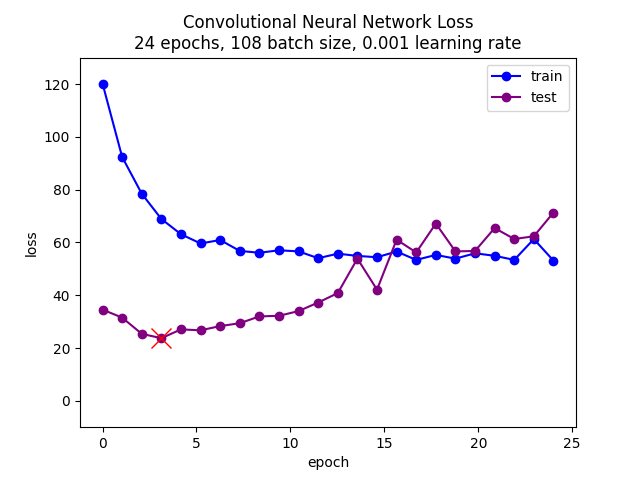
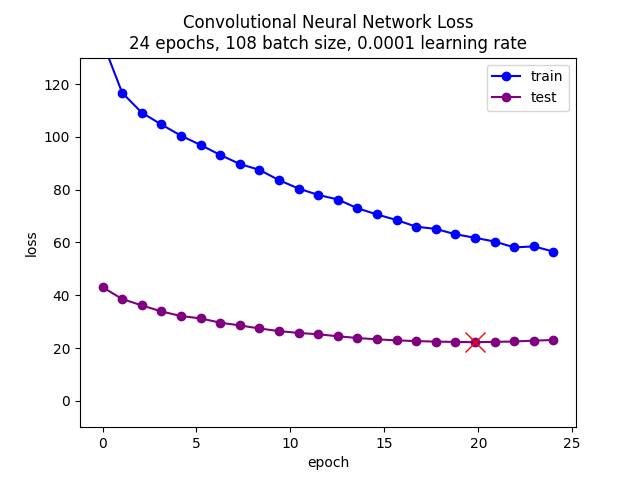
Part 1 + 2 done, appendix added

diff --git a/Latex_Report/Giselle_edit/GXX_report.tex b/Latex_Report/Giselle_edit/GXX_report.tex
@@ -12,109 +12,85 @@
 \renewcommand{\baselinestretch}{1}
 
 \begin{document}
-\title{Fake or Real News? A Comparison of Traditional Machine Learning Models and Deep Learning Models for News Article Classification}
+\title{Is it Fake News? A Comparison of Traditional Machine Learning Models and Deep Learning Models for News Article Classification}
 \author{Giselle Martel ID: 26352936 \and Firas Sawan ID: 26487815}
 \maketitle
-
 \begin{abstract}
-   "Fake news" is a term which we hear more often in contemporary times, and "is part of a larger spectrum ranging from unintentional misinformation (e.g., sloppy reporting) to intentional disinformation (e.g., propaganda)"\cite{doi:https://doi.org/10.1002/9781118841570.iejs0128}. The spread of falsehoods and inaccuracies through social media and online news sources undermines societal progress, and can spawn a multitude of negative effects [CITE]. Thus, the objective of our project is explore the feasibility and performance of existing supervised machine learning and natural language processing techniques in the identification of "fake news" to explore solutions that address misinformation in the digital age. We compare binary classification performance of news articles into "fake" or "real" categories by training six different machine learning models. Traditional classifiers such as Logistic Regression, Decision Tree, Random Forest, Support Vector Machines, and Multinomial Naive Bayes classification were utilized in our experiments, in addition to a Convolutional Neural Network. The results show that Logistic regression has the highest level of accuracy and lowest level of overfitting, thus it was generally the best model to use for classifying articles into the two categories. This classifier was followed in terms of accuracy and performance by the other 4 classifiers in the order mentioned above and the results are presented in the following report. 
+\small
+"Fake news" is a term which we hear more often in contemporary times, and "is part of a larger spectrum ranging from unintentional misinformation (e.g., sloppy reporting) to intentional disinformation (e.g., propaganda)"\cite{doi:https://doi.org/10.1002/9781118841570.iejs0128}. The spread of falsehoods and inaccuracies through social media and online news sources undermines societal progress, and can spawn a multitude of negative effects [CITATION NEEDED]. Thus, the objective of our project is explore the feasibility and performance of existing supervised machine learning and natural language processing techniques in the identification of "fake news" to explore solutions that address misinformation in the digital age. We compare binary classification performance of news articles into "fake" or "real" categories by training six different machine learning models. Traditional classifiers such as Logistic Regression, Decision Tree, Random Forest, Support Vector Machines, and Multinomial Naive Bayes classification were utilized in our experiments, in addition to a Convolutional Neural Network. The results show that Logistic regression has the highest level of accuracy and lowest level of overfitting, thus it was generally the best model to use for classifying articles into the two categories. This classifier was followed in terms of accuracy and performance by the other 4 classifiers in the order mentioned above and the results are presented in the following report. 
 \end{abstract} 
 
 %------------------------------------------------------------------------
 \section{Introduction}
+\small
 The term “fake news” mainly refers to false or inaccurate information that is mistakenly or inadvertently created or spread. Such information is often presented in the form of reputable news, despite the often omission of verifiable facts or sources, deliberately inflammatory language, and the presentation of an issue from one polarized viewpoint [CITATION NEEDED]. In regards to the current COVID-19 global health crisis we are facing, and the recent 2020 U.S. elections, we have witnessed as a society the exponential spread of conspiracies, accusations, and falsehoods which is often fueled by misleading or suspicious sources [CITATION NEEDED]. Such a situation can have a multitude of negative outcomes and undermines progress in several areas of society ranging from politics, health, economics, social justice, and beyond [CITATION NEEDED].\par
+
 Given our concern with this issue, the purpose of our project is to explore machine learning models that can aid in the identification of misleading or untruthful news articles online. We would like to identify, if any, existing popular machine learning models that could accurately classify online new sources by text into "fake" and "real" labels. We will compare the the pros and cons of five different traditional supervised models in text classification; which include Logistic Regression, Decision Tree, Random Forest, Support Vector Machine, and Multinomial Naive Bayes classifiers. In addition, we will compare the results with a supervised deep Convolutional Neural Network. Hyper-parameter tuning will be employed for all models in an attempt to generate a successful result.\par
-To train our collection of models, we utilized an existing dataset from Kaggle of news articles collected between 2015-2018 [CITE], in addition to data which was collected via scraping of more recent articles from both trusted and illegitimate news sources. The following scraped sources were included and labelled as "real" news: CBC news, CTV news, Global news, The Guardian, Fox News, NBC, The Washington Post, BBC, and CNN which are all generally recognized as reputable. More questionable scraped sources such as Breitbart, Infowars, Prntly, National Report, and Daily Buzz Live were labelled as "fake" and included in the dataset. In addition, well-know satirical news sources such as "The Onion" and "The Beaverton" were also included in the data and labelled as "fake".  The top figure below depicts the structure of the dataset from Kaggle, and the bottom figure shows the scraped data before preprocessing:
+
+To train our collection of models, we utilized an existing dataset from Kaggle of news articles collected between 2015-2018 [CITATION NEEDED], in addition to data which was collected via scraping of more recent articles from both trusted and illegitimate news sources. The following scraped sources were included and labelled as "real" news: CBC news, CTV news, Global news, The Guardian, Fox News, NBC, The Washington Post, BBC, and CNN which are all generally recognized as reputable. More questionable scraped sources such as Breitbart, Infowars, Prntly, National Report, and Daily Buzz Live were labelled as "fake" and included in the dataset. In addition, well-know satirical news sources such as "The Onion" and "The Beaverton" were also included in the data and labelled as "fake". The figure below depicts the structure of the dataset from Kaggle, and the following figure depicts the raw structure of the scraped data before preprocessing:
 \begin{center}
-\includegraphics[width=\linewidth]{dt_example.png}
-\includegraphics[width=\linewidth]{scraped_example.png}
+\includegraphics[scale=0.3]{dt_example.png}
+\end{center}
+\begin{center}
+\includegraphics[scale=0.3]{scraped_example.png}
 \end{center}
 Our inspiration to utilize the Kaggle dataset in addition to a scraping approach came from a similar experiment in news classification conducted by Ria Gandhi [CITATION HERE]. In addition, her approach in preprocessing of the data and her model selection were somewhat replicated in our project, albeit with many changes to implementation details and parameter tuning. The underlying goal of this experiment is to present the respective results from each model and compare their overall performance in classification. The results of our model training and the generated predictions will be presented analyzed in this report. Detailed graphs, confusion matrices, metrics measurement, and other results  for each of the classifiers as well as a report of accuracy, precision and recall metrics. 
 
 
 %------------------------------------------------------------------------
 \section{Methodology \& Experimental Results}
+\small
+The first step in our experiment was to carry out the preprocessing of the raw dataset. Preprocessing included steps such as the cleanup of the raw data from both Kaggle and scraped sources into the desired format, and then removing empty data cells, punctuation from each article's text formatting, and applying tokenization to each entry in the dataset using the Natural Language Processing Toolkit library. Tokenization allows for the extraction of all unique words from each article into a list of words as opposed to a single string object, while providing the option to exclude stop-words for words that are overtly present in the data or for words that the model should be agnostic to. Additionally in this process a dictionary of all the words in the dataset (i.e. vocabulary) was generated to define all the training features. For the purposes of this project, we chose to omit common words of the English language in addition to certain words that appear on every entry of the Kaggle dataset, notably "Reuters", since each "real" entry contained a reference to this well-known reputable news source.  In addition, we also applied a lemmatization to group together words that appear in several (inflected) forms. For instance, words that imply the same meaning such as "lying" and "lie" may be grouped together during this process.\par
 
-\textcolor{blue}{Describe the important steps you took to achieve your goal, alongside experimental results that followed. If certain steps (preprocessing, extra features, etc.) turned out to be important for maximizing prediction performance, then try to mention how much benefit you observed with/without that feature.}
-The first step we had to take to prepare for our experiment was to preprocess the raw data. Preprocessing included steps such as the cleanup of the raw data from both Kaggle and scraped sources into the desired format, and then removing empty data cells, punctuation from each article's text formatting, and applying tokenization to each entry in the dataset using the Natural Language Processing Toolkit libary. We utilized stopwords in our tokenization, and omitted common words of the English language in addition to certain words that appear on every entry of the Kaggle dataset (namely "Reuters") since the "real" articles were provided from Reuters.
-We also applied a lemmatization to group together words that appear in several (inflected) forms. \par
-Once the data cleanup and text tokenization process was carried out, we vectorized the article extries by applying a Count Vectorizer to  both files were joined together to create one big dataset that we later used in our tokenization process. Tokenization was a necessary process that allowed us to extract all unique words from the joined dataset while excluding some stop-words that were present in abundance throughout the data. Following tokenization the data was split into training and testing components. We opted to split the data into a 70\% training set and a 30\% testing set as it seemed ideal to have our training data consisting of more than double that of the testing data. Following the split we generated a score graph, a document-term matrix for each of the training and testing data and converted both the testing and training datasets into dataframes that we later used in our models. \\
+After data cleanup and text tokenization, we vectorized the article entries by applying a TF-IDF Vectorizer to assign a normalized feature frequency mapping to our list of tokenized articles, which returns a sparse matrix that can be utilized for training all of the traditional machine learning models. The Convolutional Neural Network conversely was trained using a Count Vectorizer, which uses a non-normalized form of the frequency mapping (i.e. integer form instead of normalized floats) since this model classifies based on frequencies. This appeared to generate more desirable result for the Convolutional Neural Network during training and evaluation. After tokenization and generating the features to train the model with, the next step is to include the corresponding label for each article in the data, with the choice being "real" or "fake" and then combine all entries into a data frame. The last step of preprocessing was to split the data into testing and training samples, with a 30\% and 70\% split respectively.\par
 
-The first model we worked on was the Logistic Regression classifier that we used to predict the probability of our categorically dependent tokenized text. We used the corresponding Sklearn library to generate our model and fit our data to it using hyper parameters obtained via a hyper parameter search for values of C with the help of GridSearchCV method. The search allowed us to obtain the best possible accuracy, calculate the training and testing scores as well as to determine overfitting and perform prediction calculations. The model worked in such a way that it treated our tokenized data as binary variables that contain data coded as 1 (in our case Real) or 0 (in our case "fake") and used this data to make predictions. We subsequently generated a graph of each of the training and testing scores as well as a confusion matrix (Figure~\ref{first_figure}) that helped us visualize the result. The model successfully achieved an accuracy of 91.34\%, a mean squared error of 9.62\% and a precision of 90.78\% with a very low overfitting value of 0.009. \\
+The first model that was trained on the preprocessed data was the Logistic Regression classifier. We opted to tune the inverse regularization hyperparameter with 13 values in the logarithmic space ranging from 10\textsuperscript{-6} to 10\textsuperscript{6}. Hyperparameter tuning on this estimator was carried out by using the GridSearchCV method to determine the inverse regularization value that generated the best cross-validation core, which happened to be C=10. Choosing the optimal inverse regularization parameter yields a result with the most ideal trade-off between overfitting and accuracy.  In addition, we also calculated the training and testing accuracy for each hyperparameter, and plotted the result (as shown in the figure below). The small margin of difference between the test and training scores in the graph generally indicates that the Logistic Regression model has little overfitting, and that the test and training scores tend to converge which are both desirable outcomes.\par
+
+After determining the best hyperparameter and training the model, the testing features were fed into the model to obtain a prediction of the corresponding labels, where "real" news is encoded as 0 and "fake" news is encoded as 1. We subsequently generated a graph of each of the training and testing scores as well as a confusion matrix (Figure~\ref{first_figure}) that helped us visualize predictions of the new articles. Please refer to the appendix to view side-by-side comparison of the distribution of fake vs. real news (Figure~\ref{piechart_1}). The model achieved a testing accuracy of 91.34\%, a mean squared error of 9.62\% and a precision of 90.78\% with a very low overfitting value of 0.009. \\
 
 \begin{figure}[h]
    \begin{center}
-        \includegraphics[width=\linewidth]{Latex_Report/report/Graphs/LR/confusion_matrix.png}
-        \includegraphics[width=\linewidth]{Latex_Report/report/Graphs/LR/scores_plot.png}
+        \includegraphics[width=\linewidth]{graphs/LR/confusion_matrix.png}
+        \includegraphics[width=\linewidth]{graphs/LR/scores_plot.png}
    \end{center}
         \vspace*{-5mm}
         \caption{\label{first_figure}}
 \end{figure}
+The Decision Tree classifier was the next model trained in the experiment. This model predicts the correct label for a particular article by learning simple decision rules inferred from the training data features. Only the max depth hyperparameter was used to train the model, whose value was likewise determined via cross-validation. The hyperparameter search was carried out with 50 values in the linear space ranging from 2 to 100. It was important to choose a wide enough range to ensure a better estimator, but without compromising computational performance which is the case with larger tree depths. The grid search yielded an optimal maximum tree depth parameter of 16. The model's overfitting value was also calculated based on the training and held-out scores over each hyperparameter, and similarly the result was graphed like with the Logistic Regression model. The result of the predictions performed by the Decision Tree classifier are depicted in the confusion matrix in Figure~\ref{Second_figure} in the appendix. The model achieved an accuracy of 86.14\%, a mean squared error of 13.86\% and a precision of 86.12\% with an overfitting value of 1.096.\par
 
-Next, we worked on the Random Forest classifier that fits a number of decision tree classifiers on various sub-samples of our dataset and uses averaging to improve the predictive accuracy while also controlling over-fitting to a satisfying degree. A hyper parameter search using GridSearchCV was conducted to find the best maximum depth and number of estimator values that provide us with the highest possible accuracy for our model. We then calculated the training and testing score values and determined the overfitting before generating a confusion matrix, a plot for the scores of each estimator and a plot displaying the feature importances for the top 25 words all shown in Figure~\ref{Second_figure} below. The model successfully achieved an accuracy of 91.11\%, a mean squared error of 8.89\% and a precision of 91.25\% with an overfitting value of 1.42.\\ 
+The Random Forest classifier fits a number of Decision Tree classifiers on various sub-samples of a dataset, and generally yields better results than a single Decision Tree since it takes advantage of averaging. Predictive accuracy can be improved while also controlling over-fitting to a satisfying degree. Just like with the previous 2 models, a hyperparameter search using GridSearchCV was conducted to find the optimal maximum depth and number of estimators. The chosen parameters for the search were values in the linear space between 2 and 14 for max depth, and 10 values in the linear space between 2 and 20. It was important to perform the hyperparameter search in a reasonable range, in order to avoid excessively expensive computations and infeasible training situations given the time constraints of our experiment and size of our dataset. The hyperparameter search yielded the optimal tree depth as 14 and the optimal number of classifiers (decision trees) as 20. As with the previous models, a plot of the training and held-out scores and the prediction confusion matrix is depicted below, in addition to a plot displaying the feature importances for the top 25 words in Figure~\ref{Third_figure} in the appendix. Figure~\ref{piechart_3} shows the distribution of labels for the true and predicted. The model achieved an accuracy of 91.11\%, a mean squared error of 8.89\% and a precision of 91.25\% with an overfitting value of 1.42.\par
 
+A Support Vector Machine model, which is a form of supervised learning, was then used to further help us in our quest for category prediction and classification. This model had an advantage of being memory efficient in the sense that it uses a subset of training points in the decision function called support vectors. In terms of the parameters used, we performed a hyperparameter search over 2 types of kernels, namely a Gaussian kernel of type 'rbf' and a linear kernel, with 5 values of C and gamma both ranging within the logarithmic space from 10\textsuperscript{-2} to 10\textsuperscript{2}. The best estimator with kernel='rbf', C=0.01, and gamma = 0.179 was returned by the grid search, and thus used in the predictions on the testing set. Refer to Figure~\ref{fourth_figure} in the appendix to visualize the result. The model achieved an accuracy of 60.73\%, a mean squared error of 39.27\% and a precision of 57.89\%.\par
+Multinomial Naive Bayesian classifier was the next model chosen given its suitability for classification of discrete feature, such as the tokenized text in our preprocessed dataset. Like with the previous models, a grid search was performed over the hyperparameters alpha (discrete values between 0 and 50) and fit\_prior (true or false) to obtain the ideal estimator. The best estimator with fit\_prior=true and alpha=1.585 was returned by the grid search, and thus used in the predictions on the testing set. Refer to Figure~\ref{fifth_figure}. The model achieved an accuracy of 87.408\%, a mean squared error of 12.59\% and a precision of 90.01\% with an overfitting value of 0.022. \par
+
+The last part of our experiment was to compare the classification of a supervised deep-learning model in contrast to more traditional machine learning models. We opted to use a Convolutional Neural Network, since it is well suited for text classification based on the frequency of occurrence for words. Since our preprocessing takes the frequencies of each into account, we felt that this model would be best suited to our data's structure. The implementation of this model relied heavily on the tutorial of Deep Learning Engineer Fernando Lopez [CITATION NEEDED]. In terms of training parameters, we first opted to use a batch size of 108, 24 epochs, and a learning rate of 0.001. The losses generated during training and evaluation were diverging, since the learning rate was too large for the gradient descent, and was overshooting at each epoch. After tuning the learning rate to be a smaller value of 0.0001, the result was much better, with a solution that was converging with each epoch. Refer to the Figure~\ref{sixth_figure} below to visualize the results. In the appendix, plots depicting the accuracies over each epoch are shown Figure~\ref{seventh_figure}.
 \begin{figure}[h]
    \begin{center}
-        \includegraphics[width=\linewidth]{Latex_Report/report/Graphs/RF/confusion_matrix.png}
-        \includegraphics[width=\linewidth]{Latex_Report/report/Graphs/RF/scores_plot.png}
-        \includegraphics[width=\linewidth]{Latex_Report/report/Graphs/RF/feature_importances.png}
+       \includegraphics[width=\linewidth]{graphs/CNN/higher_learning_rate_loss_plot.png}
+        \includegraphics[width=\linewidth]{graphs/CNN/loss_plot.png}
    \end{center}
-        \vspace*{-5mm}
-        \caption{\label{Second_figure}}
+        \vspace*{-6mm}
+        \caption{\label{sixth_figure}}
 \end{figure}
-
-Decision Tree classifier was the third model constructed with the goal of creating a classifier that predicts the correct label for a particular word by learning simple decision rules inferred from the training data features. A hyper parameter search using GridSearchCV and various max\_depth values was conducted to obtain the best accuracy possible and to help us in generating the training and testing accuracy scores. The model's overfitting value was also calculated and the best estimator was then used to generate the predictions and display the confusion matrix as well as the score graph shown in Figure~\ref{Third_figure} below. The model successfully achieved an accuracy of 86.14\%, a mean squared error of 13.86\% and a precision of 86.12\% with an overfitting value of 1.096.
- 
-\begin{figure}[h]
-   \begin{center}
-        \includegraphics[width=\linewidth]{Latex_Report/report/Graphs/DT/confusion_matrix.png}
-        \includegraphics[width=\linewidth]{Latex_Report/report/Graphs/DT/scores_plot.png}
-   \end{center}
-        \vspace*{-8mm}
-        \caption{\label{Third_figure}}
-\end{figure}
-
-Multinomial Naive Bayesian model was the next to be constructed given that it is suitable for classification of discrete features such as the tokenized text in our preprocessed dataset. We started by using GridSearchCV to perform a hyper parameter search that allowed us to choose the best accuracy to fit our data. We used the corresponding sklearn library to generate our model and then calculated the training and testing scores as well as the overfitting before we could plot our data. Next, we picked the best estimator we found and made the predictions, generated a confusion matrix and displayed a score graph as shown in Figure~\ref{fourth_figure}. The model successfully achieved an accuracy of 87.408\%, a mean squared error of 12.59\% and a precision of 90.01\% with an overfitting value of 0.022. 
-
-\begin{figure}[h]
-   \begin{center}
-        \includegraphics[width=\linewidth]{Latex_Report/report/Graphs/NB/confusion_matrix.png}
-        \includegraphics[width=\linewidth]{Latex_Report/report/Graphs/NB/scores_plot.png}
-   \end{center}
-        \vspace*{-8mm}
-        \caption{\label{fourth_figure}}
-\end{figure}
-
-A Support Vector Machine model, which is a form of supervised learning, was then used to further help us in our quest for category prediction and classification. This model had an advantage of being memory efficient in the sense that it uses a subset of training points in the decision function called support vectors. In terms of the parameters used, we performed a hyper parameter search over 2 types of kernels, namely a Gaussian kernel of type 'rbf' and a linear kernel, as well as various values for C and gamma. This allowed us to obtain the best estimator to calculate the training and testing scores as well as to determine overfitting and perform prediction calculations. A plot for the scores of each estimator as well as a confusion matrix shown in Figure~\ref{fifth_figure} were generated to help us visualize our results. The model successfully achieved an accuracy of 60.73\%, a mean squared error of 39.27\% and a precision of 57.89\%.
-
-\begin{figure}[h]
-   \begin{center}
-        \includegraphics[width=\linewidth]{Latex_Report/report/Graphs/SVC/confusion_matrix.png}
-        \includegraphics[width=\linewidth]{Latex_Report/report/Graphs/SVC/scores_plot.png}
-   \end{center}
-        \vspace*{-5mm}
-        \caption{\label{fifth_figure}}
-\end{figure}
-
-Finally, a neural network was constructed 
 
 %------------------------------------------------------------------------
 \section{Conclusions}
+\small
+As discussed in the previous section our quest for article classification involved training various types of classifiers each taking their own set of parameters to achieve the most ideal results possible. We notice that logistic regression had the highest accuracy at 91.34\% when it came to correctly classifying our tokenized data into the Fake and Real categories. The confusion matrix generated for this model shows that it correctly classified 6014 words into the "Real" category and 6618 words into the "Fake" category and overfitting. The degree of overfitting for this classifier was also the lowest obtained at 0.009. This allows us to conclude that logistic regression classifier was the best model to use on our preprocessed data. \par
 
-\textcolor{blue}{Summarize what you could and could not conclude based on your experiments.
-The ”References” section (bibliography) is optional. If you cite any books, websites, or academic papers, then you can add them to bibliography.bib and cite them in this re- port. Otherwise delete the references section.}
+Logistic regression was closely followed by the Random forest classifier with a classification accuracy of 91.11\%. The confusion matrix generated for this classifier shows very similar results to that of the logistic regression with 6060 articles correctly classified into the "Real" category and 6675 articles into the "Fake" category. The model, however, had a much higher overfitting value at 1.421. This means that although the classifiers were very close in terms of their accuracy, logistic regression remains at an advantage given that it had much less overfitting of data. \par
 
-As discussed in the previous section our quest for article classification involved training various types of classifiers each taking their own set of parameters to achieve the most ideal results possible. We notice that logistic regression had the highest accuracy at 91.34\% when it came to correctly classifying our tokenized data into the Fake and Real categories. The confusion matrix generated for this model shows that it correctly classified 6014 words into the "Real" category and 6618 words into the "Fake" category and overfitting. The degree of overfitting for this classifier was also the lowest obtained at 0.009. This allows us to conclude that logistic regression classifier was the best model to use on our preprocessed data. 
+The Multinomial Naive Bayesian model comes in third place in terms of performance with a classification accuracy of 87.41\%. Its confusion matrix shows that the model was able to successfully classify 6011 articles into the "Real" category and 6206 articles into the "Fake" category. The model has an advantage over the other two that it was the fastest to run and classify the data with a very low degree of overfitting at 0.022. In total the model took approximately 4 seconds to run from start to finish including the hyper parameter search that occupies the bulk of execution time. Perhaps this model would be a better fit to use compared to the logistic regression classifier if the goal is to achieve speed over accuracy. \par
 
-Logistic regression was closely followed by the Random forest classifier with a classification accuracy of 91.11\%. The confusion matrix generated for this classifier shows very similar results to that of the logistic regression with 6060 words correctly classified into the "Real" category and 6675 words into the "Fake" category. The model, however, had a much higher overfitting value at 1.421. This means that although the classifiers were very close in terms of their accuracy, logistic regression remains at an advantage given that it had much less overfitting of data. 
+Decision Tree Classifier follows the Bayesian model closely with a classification accuracy of 86.14\%. Its confusion matrix shows that the mode was able to correctly classify 5674 articles into the "Real" category and 6366 articles into the "Fake" category. The model was significantly slower to run than the Bayesian model at 1.2 minutes vs the 3 seconds the Bayesian model took to classify our data. It also had a much higher overfitting value at 1.096 and thus we can conclude that the Naive Bayesian model is better employed to solve our particular problem on the provided dataset.  \par
 
-The Multinomial Naive Bayesian model comes in third place in terms of performance with a classification accuracy of 87.41\%. Its confusion matrix shows that the model was able to successfully classify 6011 words into the "Real" category and 6206 words into the "Fake" category. The model has an advantage over the other two that it was the fastest to run and classify the data with a very low degree of overfitting at 0.022. In total the model took approximately 4 seconds to run from start to finish including the hyper parameter search that occupies the bulk of execution time. Perhaps this model would be a better fit to use compared to the logistic regression classifier if the goal is to achieve speed over accuracy. 
+The support vector machine classifier was the slowest to run out of all classifiers taking approximately 10.8 minutes to fully classify the data. It had the lowest classification accuracy of 60.73\% compared to other models and an overfitting value of 0.142. The model was successfully able to classify 1929 articles into the "Real" category compared and 6559 into the "Fake" category. This information allows us to conclude that although the overfitting value for the model was relatively low, that advantage is outweighed by the slow run time for the model and a logistic regression model can achieve better results at a faster pace and with significantly less overfitting. \par
 
-Decision Tree Classifier follows the Bayesian model closely with a classification accuracy of 86.14\%. Its confusion matrix shows that the mode was able to correctly classify 5674 words into the "Real" category and 6366 words into the "Fake" category. The model was significantly slower to run than the Bayesian model at 1.2 minutes vs the 3 seconds the Bayesian model took to classify our data. It also had a much higher overfitting value at 1.096 and thus we can conclude that the Naive Bayesian model is better employed to solve our particular problem on the provided dataset.  
+Finally the CNN.... \par
 
-Lastly the support vector machine classifier was the slowest to run out of all classifiers taking approximately 10.8 minutes to fully classify the data. It had the lowest classification accuracy of 60.73\% compared to other models and an overfitting value of 0.142. The model was successfully able to classify 1929 words into the "Real" category compared and 6559 into the "Fake" category. This information allows us to conclude that although the overfitting value for the model was relatively low, that advantage is outweighed by the slow run time for the model and a logistic regression model can achieve better results at a faster pace and with significantly less overfitting. 
+Overall, we can conclude generally machine learning models can classify fake and real news with a relatively high degree of accuracy. It is important to note that every step of the process was important. Correctly cleaning the raw data, tokenizing it with wisely chosen stopwords, using lemmatization, and applying the correct vectorizer depending on the model all have contributed to the higher rates of accuracy. The least performant of the classifier, the SVM, was the only model that appeared to diverge and had a high mean squared error. This is likely indicative of poorly chose hyperparameters. It would be a good idea to try a different set of hyperparameters for the cross-validation in order to yield a more ideal result. 
+Please refer to the appendix to see more graphs depicting the classification results.
 
-Finally the CNN.... 
 
 {\small
 \raggedright
@@ -124,16 +100,9 @@ Finally the CNN....
 
 \newpage
 \appendix
-
-
+\onecolumn
 %-------------------------------------------------------------------------
-\section*{Appendix: Extra Results (Optional)}
-
-% DELETE THIS TEXT
-\textcolor{blue}{If you want to include extra more detailed results that did not fit within the main report, include them here. Or, you can just delete this example section.}
-
-multiple citations \cite{breiman2001statistical,bishop2006pattern}.
-
+\section*{Appendix: Extra Results}\centering
 \begin{table*}[!hb]\centering
    \begin{center}
    \begin{tabular}{|l|c|c|c|c|c|}
@@ -145,11 +114,76 @@ multiple citations \cite{breiman2001statistical,bishop2006pattern}.
    Random forest & 94.40\% & 23.60\% & 93.99\% & 95.41\% & 94.69\%\\
    Support Vector Machine & 90.90\% & 30.04\% & 91.24\% & 91.51\% & 91.38\% \\
    Logistic Regression & 99.08\% & 9.55\% & 99.14\% & 99.10\% & 99.13\% \\
-   Central Neural Network & 0.00\% & 0.00\% & 0.00\% & 0.00\% & 0.00\% \\
    \hline
    \end{tabular}
    \end{center}
-   \caption{Summary of Model Results\label{first_table}}
+   \caption{Summary of Traditional ML Model Results\label{first_table}}
 \end{table*}
+
+\begin{figure}[h]
+   \begin{center}
+        \includegraphics[scale=0.6]{graphs/LR/piechart.png}
+   \end{center}
+\vspace*{-5mm}
+\caption{Logistic Regression results \label{piechart_1}}
+\end{figure}
+
+\begin{figure}[h]
+   \begin{center}
+        \includegraphics[scale=0.8]{graphs/DT/confusion_matrix.png}
+        \includegraphics[scale=0.8]{graphs/DT/scores_plot.png}
+        \includegraphics[scale=0.6]{graphs/DT/piechart.png}
+   \end{center}
+        \vspace*{-5mm}
+        \caption{\label{Second_figure}}
+\end{figure}
+
+
+\begin{figure}[h]
+   \begin{center}
+        \includegraphics[scale=0.6]{graphs/RF/confusion_matrix.png}
+        \includegraphics[scale=0.6]{graphs/RF/scores_plot.png}
+        \includegraphics[scale=0.6]{graphs/RF/feature_importances.png}
+   \end{center}
+        \vspace*{-5mm}
+        \caption{\label{Third_figure}}
+\end{figure}
+
+\begin{figure}[h]
+   \begin{center}
+        \includegraphics[scale=0.6]{graphs/RF/piechart.png}
+   \end{center}
+\vspace*{-5mm}
+\caption{Random Forest results \label{piechart_3}}
+\end{figure}
+
+\begin{figure}[h]
+   \begin{center}
+        \includegraphics[scale=0.6]{graphs/SVC/confusion_matrix.png}
+        \includegraphics[scale=0.6]{graphs/SVC/scores_plot.png}
+        \includegraphics[scale=0.6]{graphs/SVC/piechart.png}
+   \end{center}
+        \vspace*{-5mm}
+        \caption{\label{fourth_figure}}
+\end{figure}
+
+\begin{figure}[h]
+   \begin{center}
+        \includegraphics[scale=0.6]{graphs/NB/confusion_matrix.png}
+        \includegraphics[scale=0.6]{graphs/NB/scores_plot.png}
+        \includegraphics[scale=0.6]{graphs/NB/piechart.png}
+   \end{center}
+        \vspace*{-5mm}
+        \caption{\label{fifth_figure}}
+\end{figure}
+
+\begin{figure}[h]
+   \begin{center}
+       \includegraphics[scale=0.8]{graphs/CNN/higher_learning_rate_accuracies_plot.png}
+        \includegraphics[scale=0.8]{graphs/CNN/accuracies_plot.png}
+   \end{center}
+        \vspace*{-5mm}
+        \caption{\label{seventh_figure}}
+\end{figure}
 
 \end{document}
